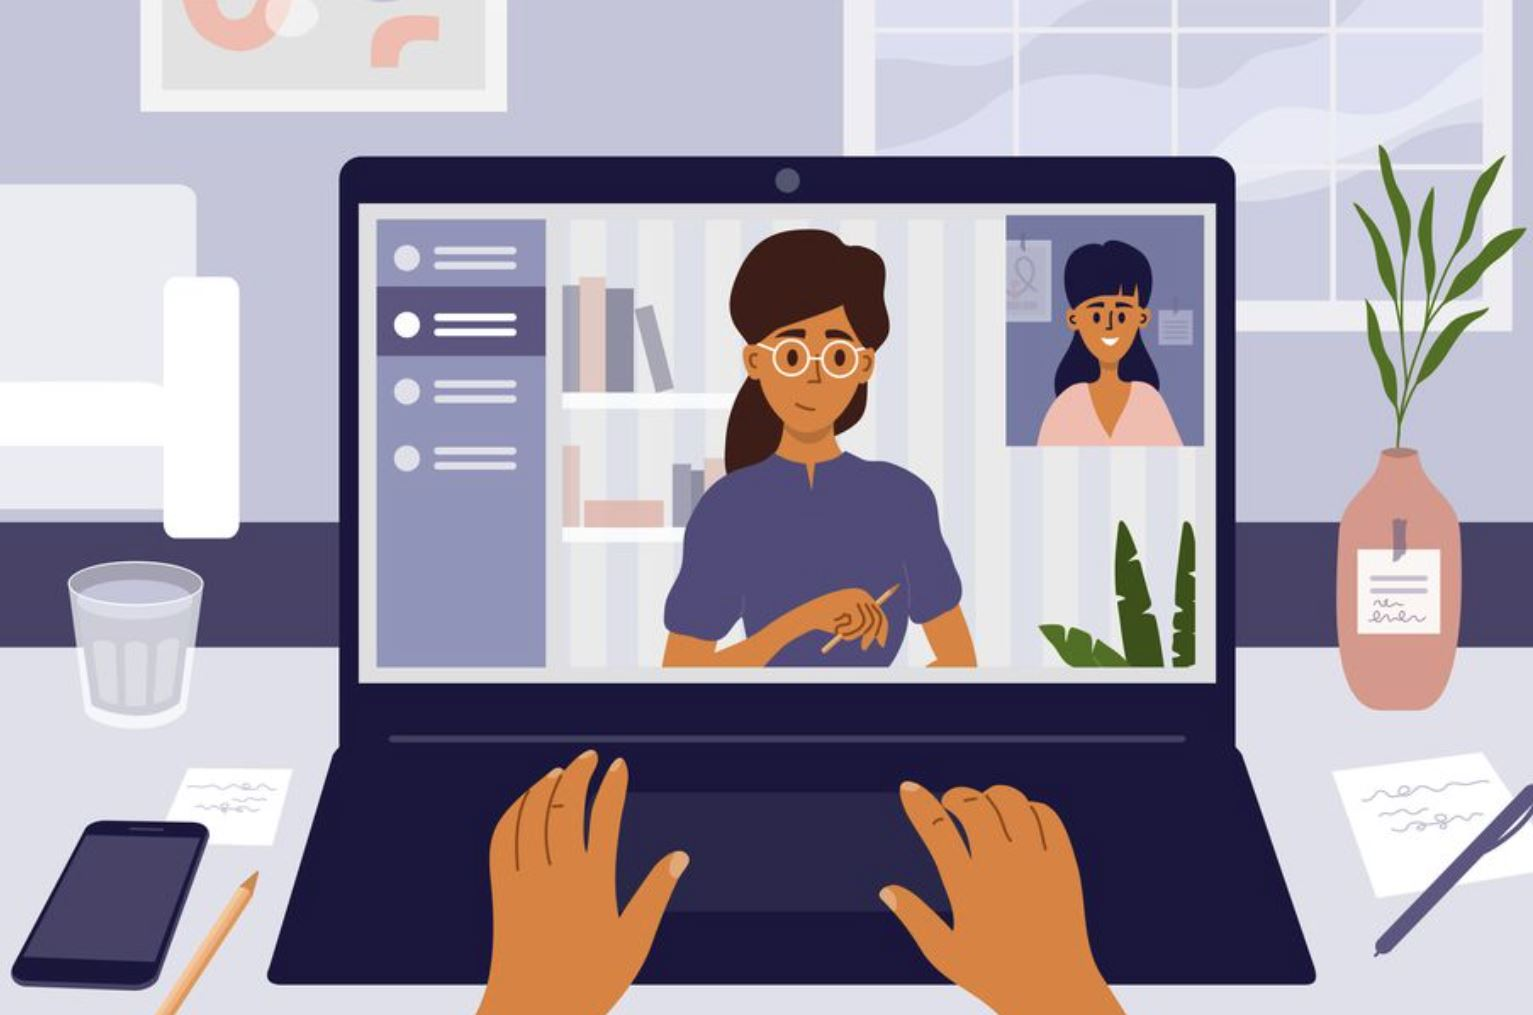
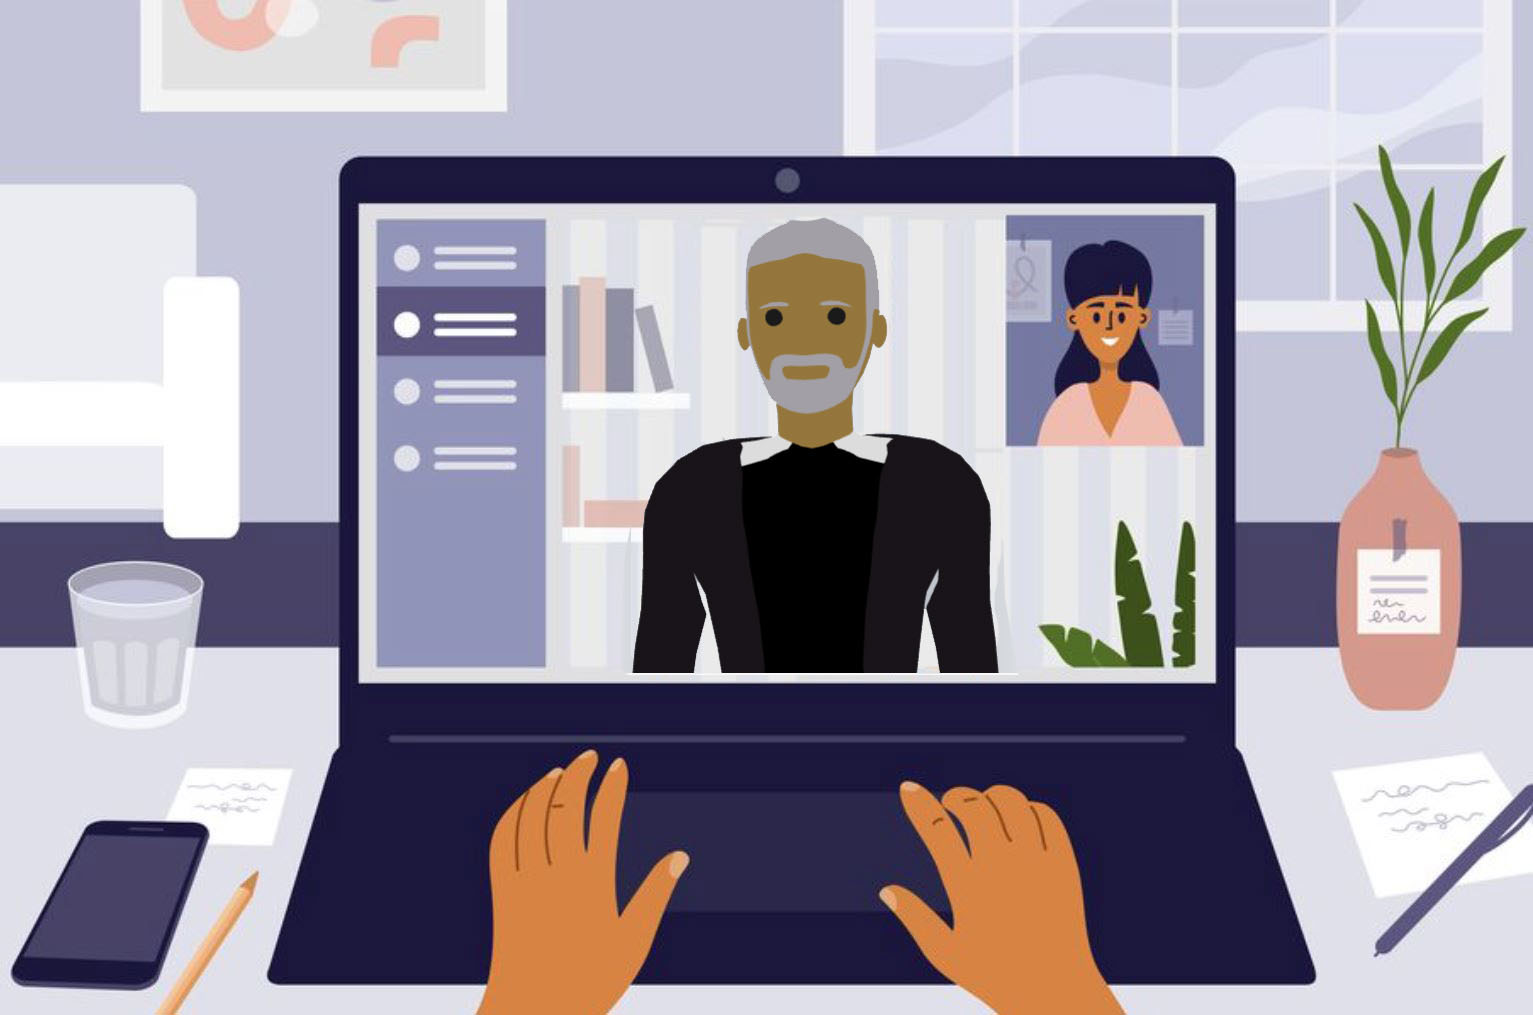
[FE][Dashboard+Interview][UI]
- Changed the dashboard layout
- Changed the Logo
- Added the Loading feature

Changed region(s): [[0.3986, 0.2138, 0.6745, 0.6719]]

diff --git a/client/src/Components/Coding/ProblemList.tsx b/client/src/Components/Coding/ProblemList.tsx
@@ -37,7 +37,7 @@ const ProblemList = ({ dashboard }: { dashboard: boolean }) => {
   return dashboard ? (
     <div
       className={
-        "text-right rounded-2xl text-lg p-10 flex flex-col w-full justify-center bg-white"
+        "text-center rounded-2xl text-lg p-10 flex flex-col w-full justify-center bg-white"
       }
     >
       <h2 className="text-xl mb-5 font-bold">Coding Challenges</h2>
@@ -45,32 +45,46 @@ const ProblemList = ({ dashboard }: { dashboard: boolean }) => {
         to={"/codingtest/level/" + "beginner"}
         className="hover:opacity-50 active:opacity-75"
       >
-        Work on <span className="font-bold">beginner</span> challenges
+        <button className='mt-10 w-full py-2 px-4 bg-dark-cyan text-black font-bold text-black hover:bg-african-violet-900 hover:text-seasalt rounded-md px-3 py-2 text-base font-medium'>   
+           Work on <span className="font-bold">beginner</span> challenges
+        </button>
       </Link>
       <Link
         to={"/codingtest/level/" + "intermediate"}
         className="hover:opacity-50 active:opacity-75"
       >
+        <button className='mt-10 w-full py-2 px-4 bg-dark-cyan text-black font-bold text-black hover:bg-african-violet-900 hover:text-seasalt rounded-md px-3 py-2 text-base font-medium'>   
+        
         Work on <span className="font-bold">intermediate</span> challenges
+        </button>
       </Link>
       <Link
         to={"/codingtest/level/" + "advanced"}
         className="hover:opacity-50 active:opacity-75"
       >
+        <button className='mt-10 w-full py-2 px-4 bg-dark-cyan text-black font-bold text-black hover:bg-african-violet-900 hover:text-seasalt rounded-md px-3 py-2 text-base font-medium'>   
+        
         Work on <span className="font-bold">advanced</span> challenges
+        </button>
       </Link>
       <Link
         to={"/codingtest/level/" + "expert"}
         className="hover:opacity-50 active:opacity-75"
       >
+        <button className='mt-10 w-full py-2 px-4 bg-dark-cyan text-black font-bold text-black hover:bg-african-violet-900 hover:text-seasalt rounded-md px-3 py-2 text-base font-medium'>   
+        
         Work on <span className="font-bold">expert</span> challenges
-      </Link>
+        </button>
+        </Link>
       <Link
         to={"/codingtest/level/" + "all"}
         className="hover:opacity-50 active:opacity-75"
       >
+        <button className='mt-10 w-full py-2 px-4 bg-dark-cyan text-black font-bold text-black hover:bg-african-violet-900 hover:text-seasalt rounded-md px-3 py-2 text-base font-medium'>     
         Work on <span className="font-bold">all</span> challenges
-      </Link>
+        </button>
+        </Link>
+       
     </div>
   ) : (
     <div className="flex items-center justify-center py-12 px-4 sm:px-6 lg:px-8 text-black text-sm">

diff --git a/client/src/Routes/Interview.tsx b/client/src/Routes/Interview.tsx
@@ -30,6 +30,7 @@ export default function Interview() {
     video: true,
   });
 
+
   const [showInterviewForm, setShowInterviewForm] = useState(true);
   const [formSubmitted, setFormSubmitted] = useState(false);
   const [interviewId, setInterviewId] = useState("");
@@ -43,6 +44,20 @@ export default function Interview() {
   const [feedback, setFeedback] = useState("");
   const [suggestions, setSuggestions] = useState("");
   const chatContainerRef = useRef<HTMLDivElement>(null);
+
+
+
+    //to delay the loading of the avatar  
+  
+    const [isUserWebCamLoaded, setIsUserWebCamLoaded] = useState(false);
+
+
+    const handleUserWebCamLoaded = () => {
+      setTimeout(() => {
+        setIsUserWebCamLoaded(true);
+      }, 3000); 
+    };
+  
 
   useEffect(() => {
     if (chatContainerRef.current) {
@@ -155,11 +170,13 @@ export default function Interview() {
             {formValues.video && (
               <div className="flex flex-col items-center justify-center w-full pt-20">
                 <div className="flex justify-center space-x-1">
-                  <UserWebCam />
-                  <AvatarWebCam
-                    isInterviewerSpeaking={isInterviewerSpeaking}
-                    video={formValues.video}
-                  />
+                  <UserWebCam onLoaded={handleUserWebCamLoaded} />
+                  {isUserWebCamLoaded && (
+                    <AvatarWebCam
+                      isInterviewerSpeaking={isInterviewerSpeaking}
+                      video={formValues.video}
+                    />
+                  )}
                 </div>
                 <Interviewer
                   videoQuestion={videoQuestion}

diff --git a/client/src/Routes/Dashboard.tsx b/client/src/Routes/Dashboard.tsx
@@ -11,17 +11,31 @@ export default function Dashboard() {
         Welcome to Prep'd!
       </h2>
       <div className="dashboard-container">
-        <div className="dashboard-elements">
-          <ProblemList dashboard={true} />
+        <div className='justify-center'>
+          <div className="dashboard-elements">
+            <ProblemList dashboard={true} />
+          </div>
+            {/* <button className='mt-10 w-full py-2 px-4 bg-dark-cyan text-black font-bold text-black hover:bg-african-violet-900 hover:text-seasalt rounded-md px-3 py-2 text-base font-medium'>
+             Test your skills in Code
+            </button> */}
         </div>
-        <div className="dashboard-elements">
-          <Link to="/interview">
-            <img
-              className="dashboard-image"
-              src={Interview}
-              alt="Remote interview"
-            ></img>
-          </Link>
+
+        <div className='justify-center'>
+          <div className="dashboard-elements">
+
+            <Link to="/interview">
+              <img
+                className="dashboard-image"
+                src={Interview}
+                alt="Remote interview"
+              ></img>
+            </Link>
+              <Link to="/interview">
+                <button className='mt-5 w-full py-2 px-4 bg-dark-cyan text-black font-bold text-black hover:bg-african-violet-900 hover:text-seasalt rounded-md px-3 py-2 text-base font-medium'>
+                Start an Interview
+                </button>
+              </Link>
+            </div>
         </div>
       </div>
     </div>

diff --git a/client/src/Components/Interview/UserWebCam.tsx b/client/src/Components/Interview/UserWebCam.tsx
@@ -1,9 +1,11 @@
 import React, {useState, useEffect, useRef} from 'react';
 
-// for declaring upcoming props type
-type Props = any;
 
-const UserWebCam: React.FC<Props> = () => {
+type Props = {
+  onLoaded: () => void;
+};
+
+const UserWebCam: React.FC<Props> = ({ onLoaded}) => {
 
   // State to hold user's media stream once it starts
   const [stream, setStream] = useState<MediaStream | null> (null);
@@ -21,6 +23,9 @@ const UserWebCam: React.FC<Props> = () => {
 
         setStream(stream);
 
+        // call onLoaded once the media stream has started
+        onLoaded();
+
       } catch(error) {
         console.error('unable to access cam', error);
       }
@@ -28,7 +33,7 @@ const UserWebCam: React.FC<Props> = () => {
 
 
     getUserMedia();
-  }, []);
+  }, [onLoaded]);
 
   useEffect(() => {
     if (videoRef.current && stream) {
@@ -45,12 +50,6 @@ const UserWebCam: React.FC<Props> = () => {
       
       )}
 
-      
-      {/* <div  className='flex justify-end'>
-        <div className='bg-white w-24 flex justify-center'> 
-           YOU
-        </div>
-      </div> */}
 
     </div>
   )

diff --git a/client/src/Components/Interview/AvatarWebCam.tsx b/client/src/Components/Interview/AvatarWebCam.tsx
@@ -4,12 +4,6 @@ import { Canvas } from '@react-three/fiber';
 import { OrbitControls } from '@react-three/drei';
 
 const AvatarWebCam = ({ isInterviewerSpeaking }: any)  => {
-  
-  console.log('yes its speaking ' + isInterviewerSpeaking );
-  const [audioUrl, setAudioUrl] = React.useState<string | null>(null);
-  const [isPlaying, setIsPlaying] = React.useState<boolean>(false);
-
-  const audioElmRef = React.useRef<HTMLAudioElement>(null!);
 
   return (
 

diff --git a/client/src/Components/Interviewer.tsx b/client/src/Components/Interviewer.tsx
@@ -28,9 +28,16 @@ export default function Interviewer ({ videoQuestion, setIsInterviewerSpeaking, 
     handleIsSpeaking();
     utterThis.onend = () => setIsInterviewerSpeaking(false);
   }  
-
+  let times = 0
   function delaySpeakMessage() {
-    setTimeout(speakMessage, 3000);
+    if (times == 0){
+      setTimeout(speakMessage, 5000);
+      times ++;
+    }
+    else {
+      setTimeout(speakMessage, 3000);
+    }
+
   }
 
   useEffect(() => {

diff --git a/client/src/index.css b/client/src/index.css
@@ -76,7 +76,8 @@ code {
   align-items: stretch;
   border-radius: 20px;
   box-shadow: 0 2px 4px rgba(0, 0, 0, 0.1);
-  display: flex;
+  /* display: flex; */
+  height: 100%;
   flex: 1;
   max-width: 35vw;
 }
